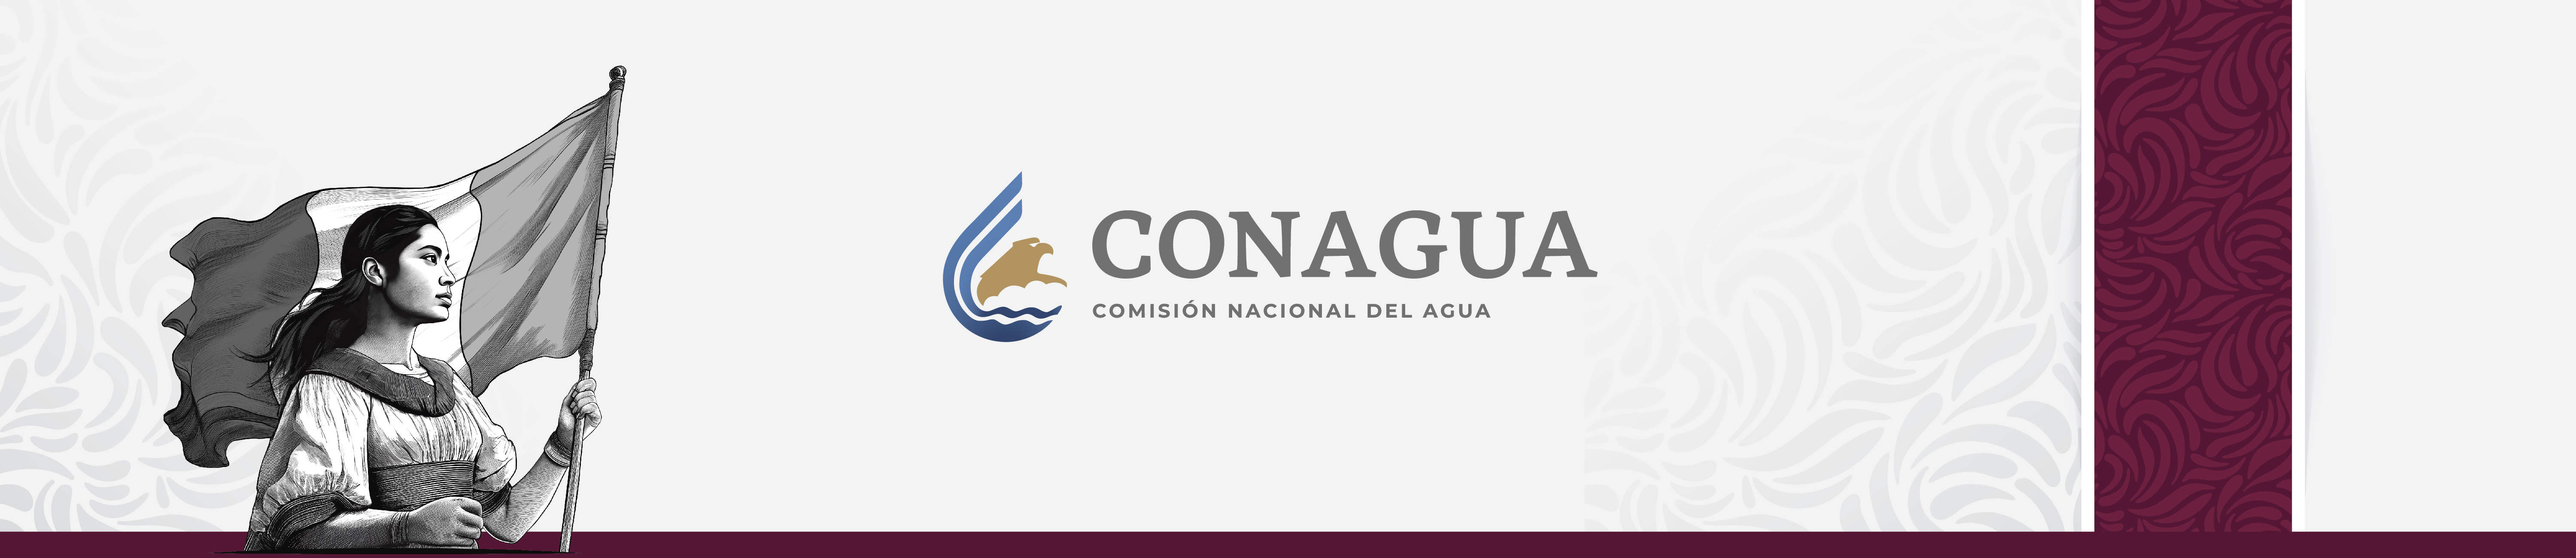
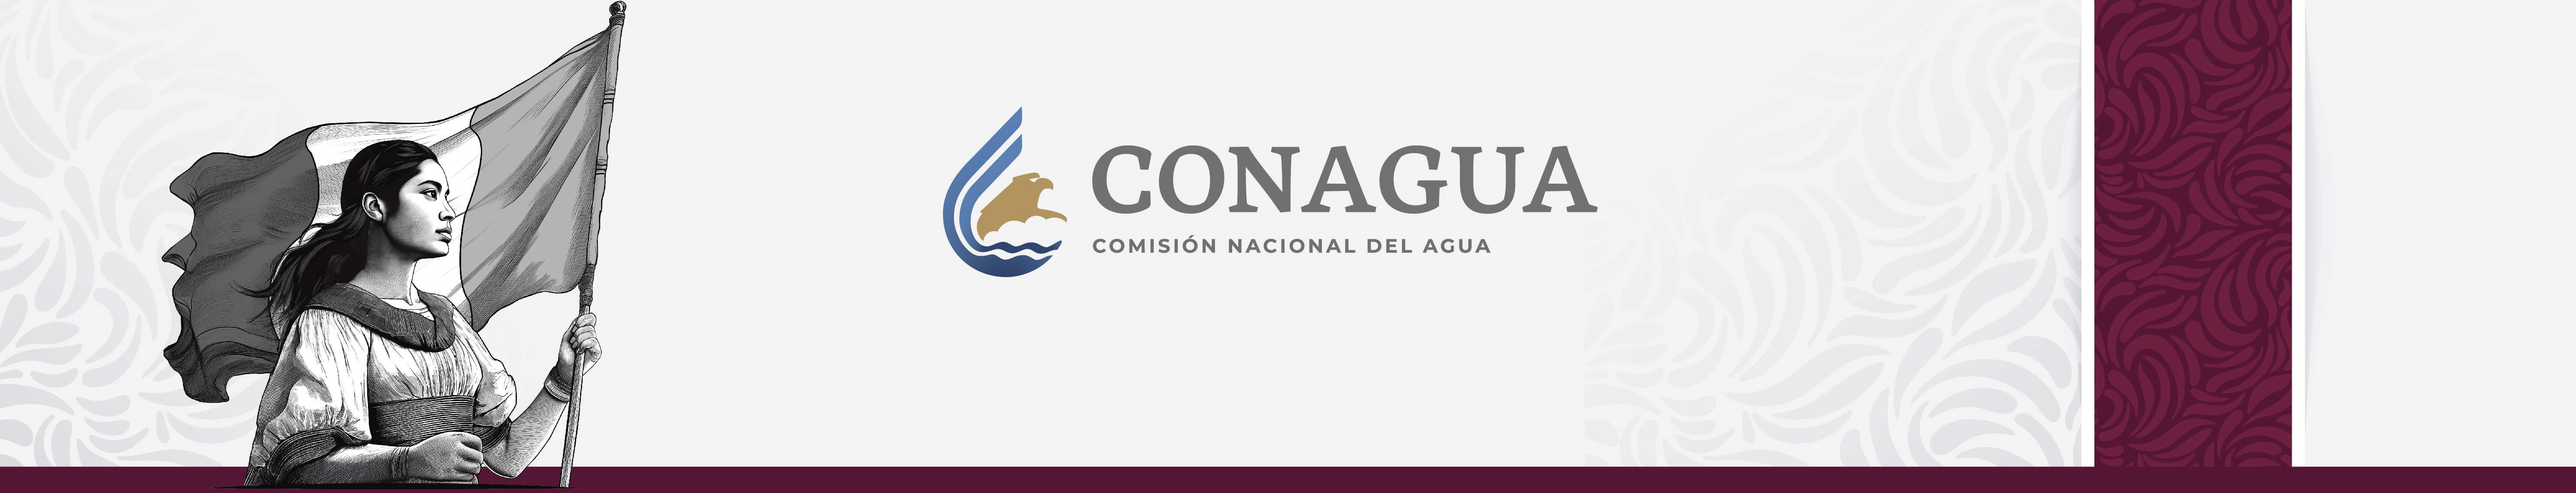
fix(imagen_fija): se cambio el tamaño de la imagen fija que se muestra en cada página

diff --git a/app/page.jsx b/app/page.jsx
@@ -151,7 +151,7 @@ export default function Home() {
         sx={{
           width: "100", // Ocupa todo el ancho de la ventana gráfica
           overflow: "hidden",
-          height: "200px", // Ajusta la altura según sea necesario
+          height: "240px", // Ajusta la altura según sea necesario
           [theme.breakpoints.down("md")]: {
             height: "auto", // Ajusta la altura automáticamente en pantallas pequeñas
           },
